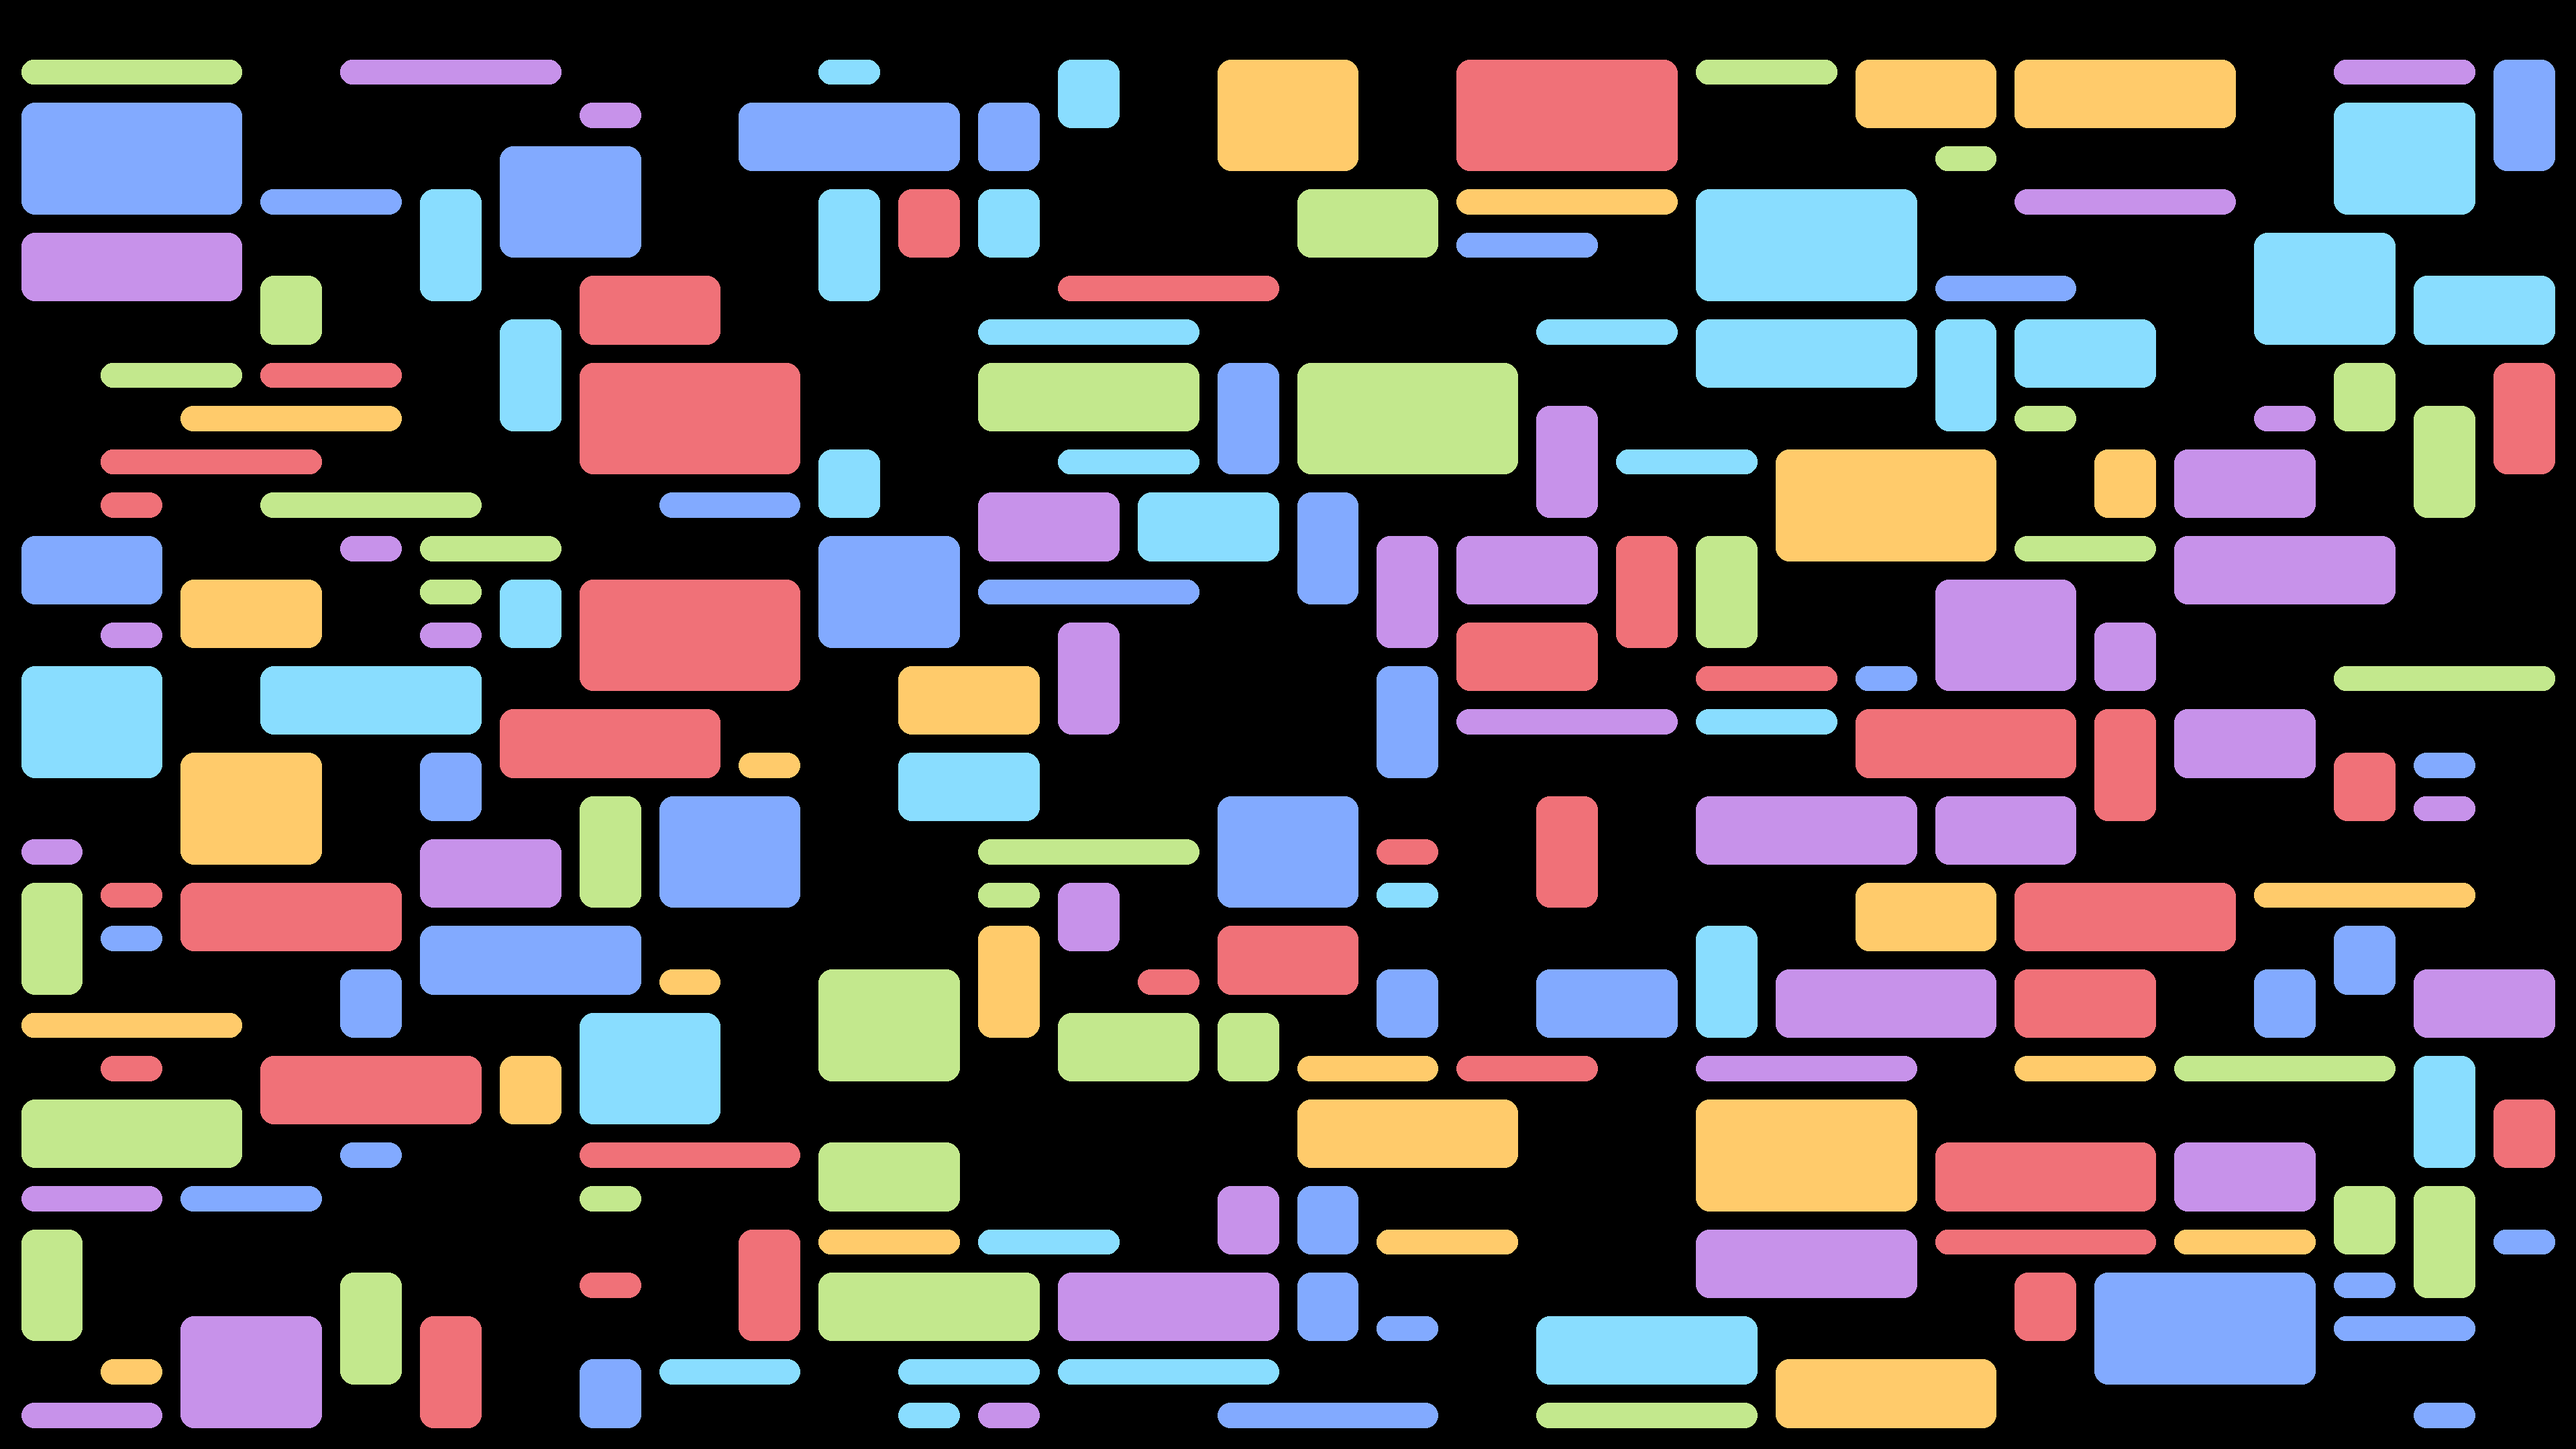
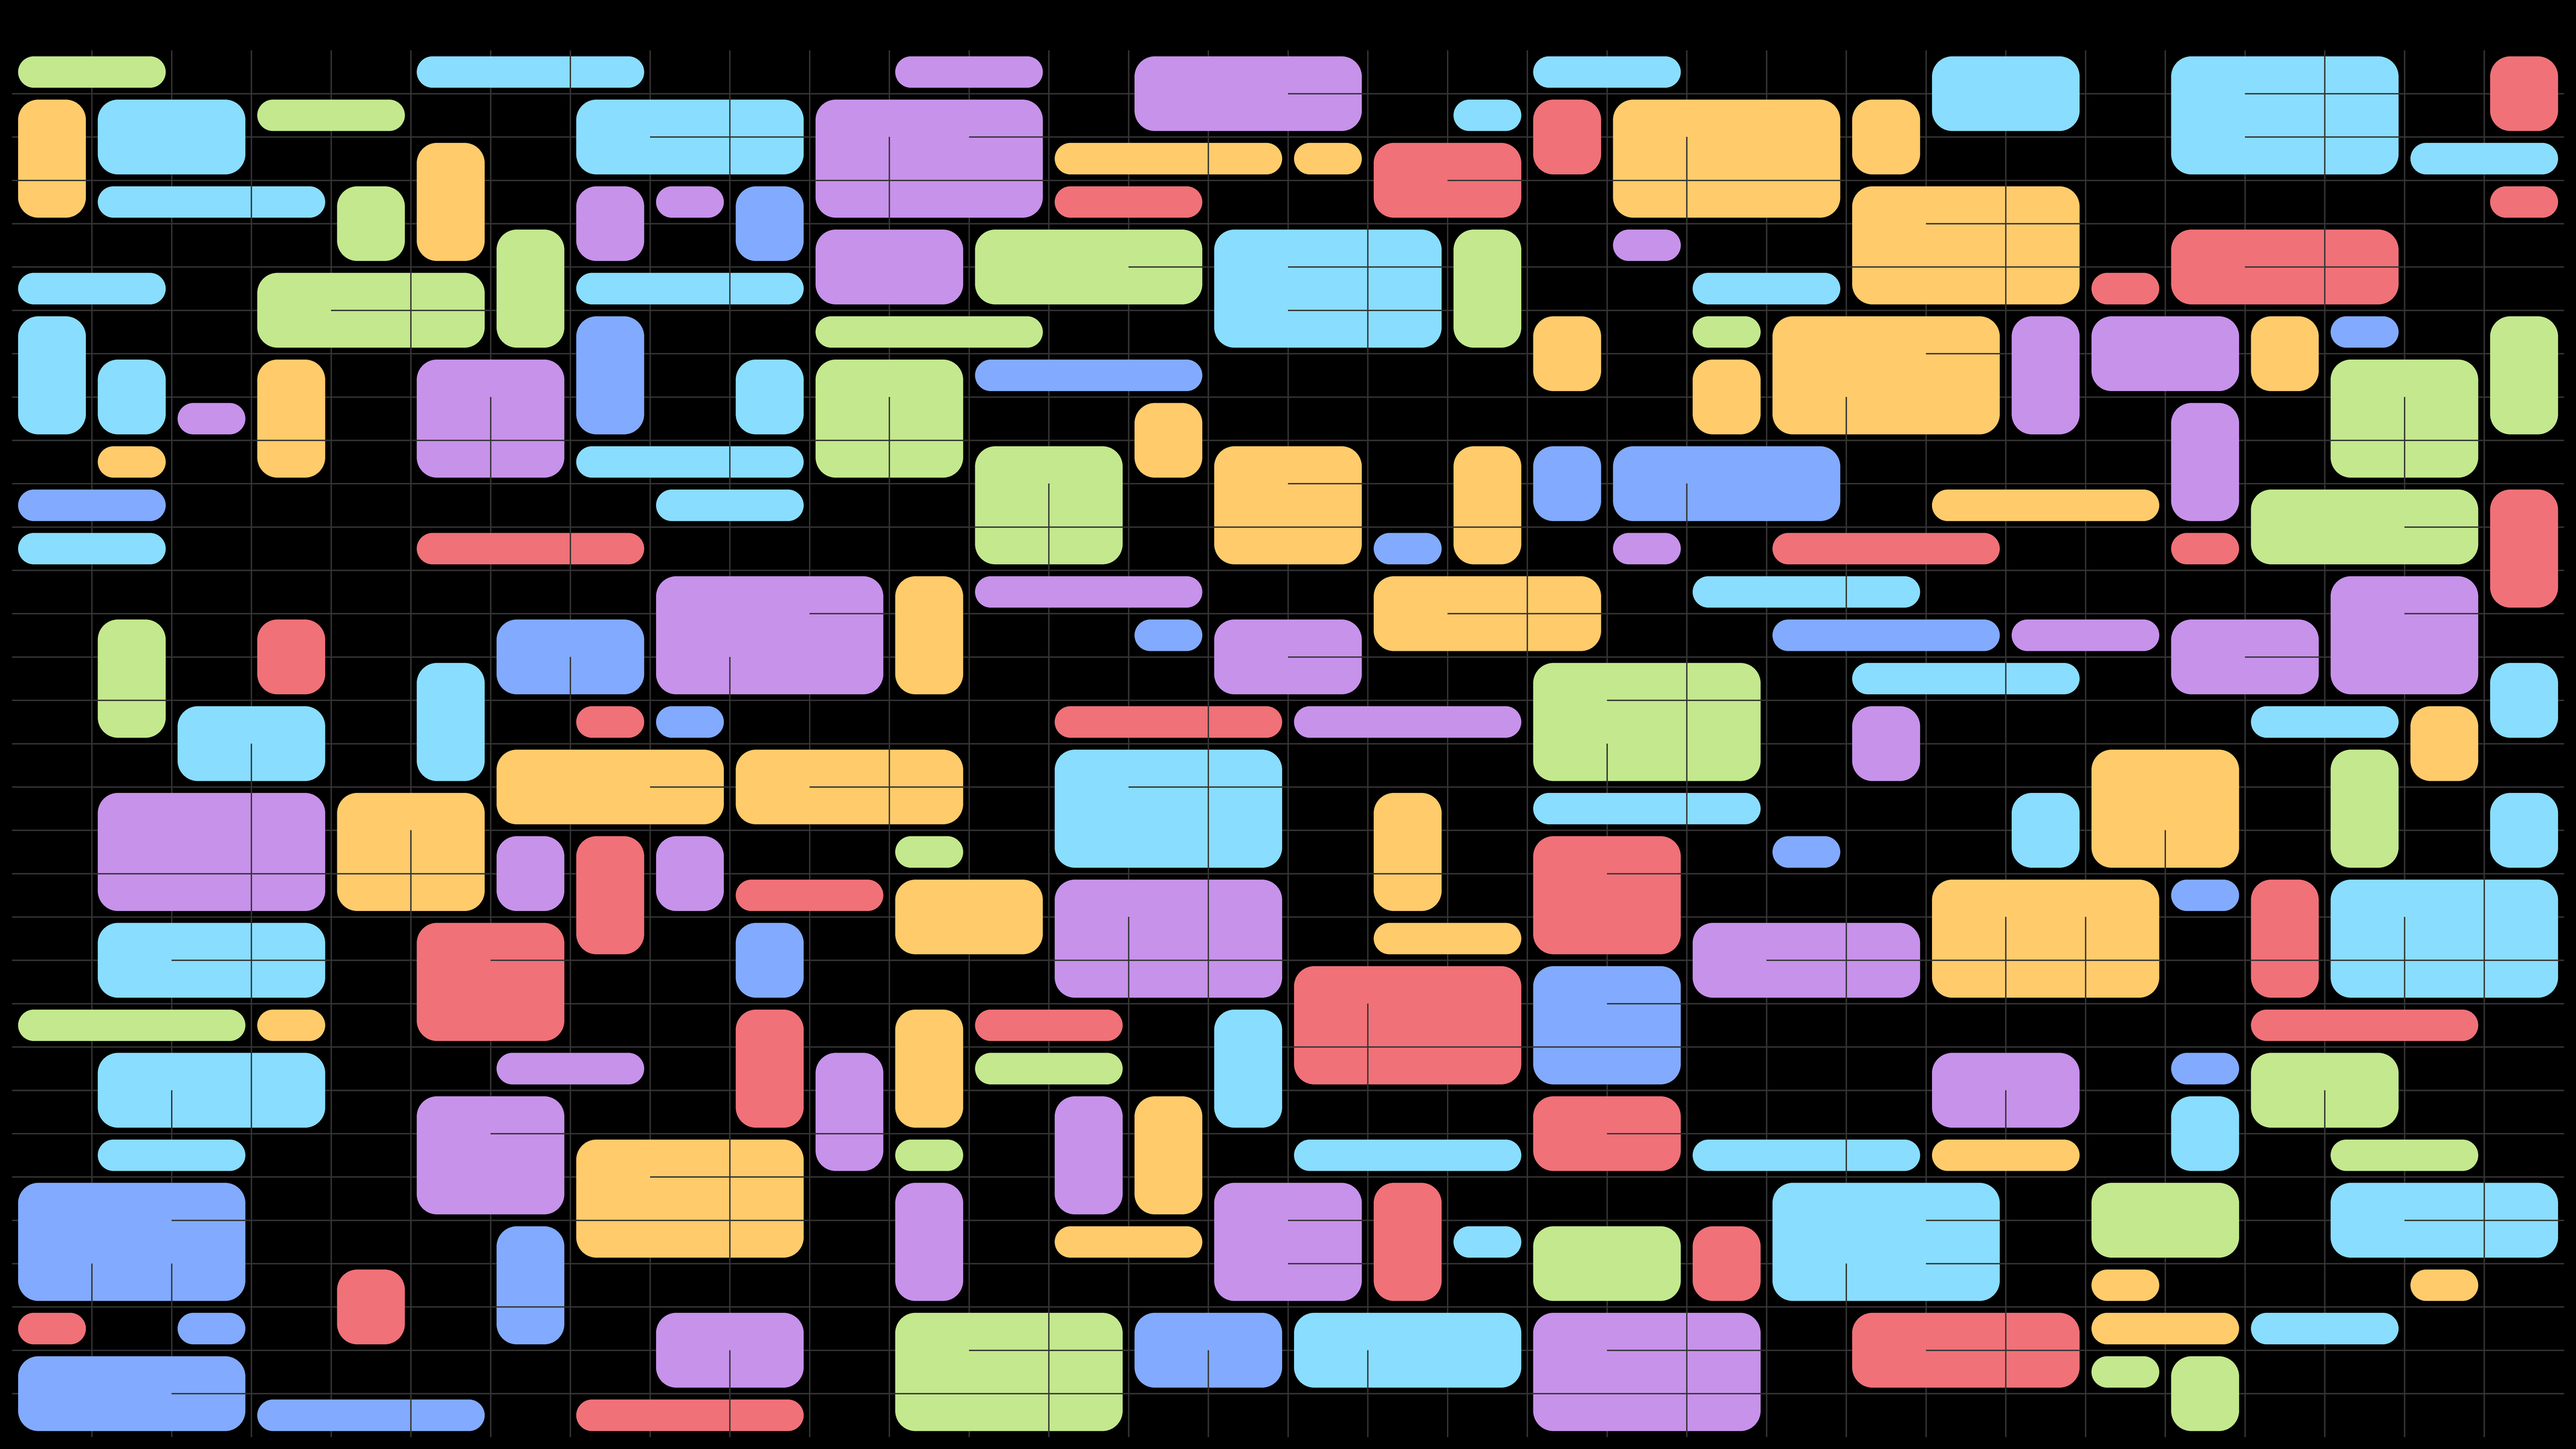
Enhance recursive shape generation with new rendering options and improved padding calculations
Enhances rendering options and padding calculations

Adds new rendering options including resolution scaling, grid line drawing, and shape margin configuration for improved visual quality and debugging. Updates recursive shape generation to support dynamic corner radius based on shape size. Refines padding and tiling container calculations for higher resolution rendering. Introduces downsampling for smoother edges.

diff --git a/wallpapers/doodle_wallpaper.py b/wallpapers/doodle_wallpaper.py
@@ -29,6 +29,9 @@ RANDOM_SEED = None  # Set to None for truly random, or a number for reproducible
 FILL_PROBABILITY = 0.5  # Probability (0-1) that a cell will be filled
 CORNER_RADIUS = 20  # Corner radius for rounded rectangles
 MAX_MERGE_SIZE = 3  # Maximum size of merged cells (1 = no merging, 2 = 2x2, 3 = 3x3, etc.)
+RENDER_SCALE = 4  # Render at higher resolution and downsample for smoother edges
+DRAW_GRID_LINES = False  # Set to True to draw grid lines for alignment verification
+SHAPE_MARGIN = 0.5  # Margin multiplier for shapes (0.5 = half gap, 1.0 = full gap, etc.)
 
 # Color Palette (RGB tuples)
 COLOR_PALETTE = [
@@ -44,7 +47,7 @@ COLOR_BG = (0, 0, 0)  # Pure Black Background
 
 
 # ================= RECURSIVE SHAPE GENERATION =================
-def draw_recursive_shapes(draw, x, y, w, h, level, min_level, padding, filled_cells, container_x, container_y, container_w, container_h):
+def draw_recursive_shapes(draw, x, y, w, h, level, min_level, padding, filled_cells, container_x, container_y, container_w, container_h, corner_radius):
     """
     Recursively subdivide space and randomly fill cells with rounded rectangles.
     Cells can be merged to create larger shapes. Prevents overlapping shapes and merging beyond boundaries.
@@ -110,9 +113,12 @@ def draw_recursive_shapes(draw, x, y, w, h, level, min_level, padding, filled_ce
                 y2 = int(y + merged_h - padding)
                 
                 if x2 > x1 and y2 > y1:  # Only draw if there's space
+                    radius = min(int(corner_radius), (x2 - x1) // 2, (y2 - y1) // 2)
+                    if radius < 0:
+                        radius = 0
                     draw.rounded_rectangle(
                         [(x1, y1), (x2, y2)],
-                        radius=CORNER_RADIUS,
+                        radius=radius,
                         fill=color
                     )
         return
@@ -123,11 +129,20 @@ def draw_recursive_shapes(draw, x, y, w, h, level, min_level, padding, filled_ce
     new_w = w / 2
     new_h = h / 2
     
+    # Draw grid lines if enabled (for debugging)
+    if DRAW_GRID_LINES:
+        line_color = (53, 53, 53)  # Dark gray
+        line_width = max(1, int(2 * RENDER_SCALE))
+        # Vertical line
+        draw.line([(mid_x, y), (mid_x, y + h)], fill=line_color, width=line_width)
+        # Horizontal line
+        draw.line([(x, mid_y), (x + w, mid_y)], fill=line_color, width=line_width)
+    
     # Recurse into four quadrants
-    draw_recursive_shapes(draw, x, y, new_w, new_h, level - 1, min_level, padding, filled_cells, container_x, container_y, container_w, container_h)
-    draw_recursive_shapes(draw, mid_x, y, new_w, new_h, level - 1, min_level, padding, filled_cells, container_x, container_y, container_w, container_h)
-    draw_recursive_shapes(draw, x, mid_y, new_w, new_h, level - 1, min_level, padding, filled_cells, container_x, container_y, container_w, container_h)
-    draw_recursive_shapes(draw, mid_x, mid_y, new_w, new_h, level - 1, min_level, padding, filled_cells, container_x, container_y, container_w, container_h)
+    draw_recursive_shapes(draw, x, y, new_w, new_h, level - 1, min_level, padding, filled_cells, container_x, container_y, container_w, container_h, corner_radius)
+    draw_recursive_shapes(draw, mid_x, y, new_w, new_h, level - 1, min_level, padding, filled_cells, container_x, container_y, container_w, container_h, corner_radius)
+    draw_recursive_shapes(draw, x, mid_y, new_w, new_h, level - 1, min_level, padding, filled_cells, container_x, container_y, container_w, container_h, corner_radius)
+    draw_recursive_shapes(draw, mid_x, mid_y, new_w, new_h, level - 1, min_level, padding, filled_cells, container_x, container_y, container_w, container_h, corner_radius)
 
 
 # ================= MAIN LOOP =================
@@ -138,24 +153,34 @@ if RANDOM_SEED is not None:
 for m in MONITORS:
     print(f"Processing {m['name']}...")
 
-    # 1. Calculate Physical Dimensions
-    # We round to ensure pixel-perfect integer coordinates
+    # 1. Calculate Physical Dimensions at logical resolution first
     scale = m["scale"]
-    bar_px = int(m["bar_logical_height"] * scale)
-    gap_px = int(m["gap_logical"] * scale)
+    bar_px_logical = int(m["bar_logical_height"] * scale)
+    gap_px_logical = int(m["gap_logical"] * scale)
 
-    # Calculate padding for shapes
-    padding = int(gap_px * 0.8)
+    # Define the "Tiling Container" area at logical resolution
+    container_x_logical = gap_px_logical
+    container_y_logical = bar_px_logical + gap_px_logical
+    container_w_logical = m["width"] - (gap_px_logical * 2)
+    container_h_logical = m["height"] - (bar_px_logical + (gap_px_logical * 2))
 
-    # 2. Define the "Tiling Container" area
-    # This is the area where windows actually live
-    container_x = gap_px
-    container_y = bar_px + gap_px
-    container_w = m["width"] - (gap_px * 2)
-    container_h = m["height"] - (bar_px + (gap_px * 2))
+    # Now scale everything for high-resolution rendering
+    bar_px = bar_px_logical * RENDER_SCALE
+    gap_px = gap_px_logical * RENDER_SCALE
+    container_x = container_x_logical * RENDER_SCALE
+    container_y = container_y_logical * RENDER_SCALE
+    container_w = container_w_logical * RENDER_SCALE
+    container_h = container_h_logical * RENDER_SCALE
 
-    # 3. Create Image
-    img = Image.new("RGB", (m["width"], m["height"]), COLOR_BG)
+    # Calculate padding for shapes based on margin parameter
+    padding = max(1, int(gap_px * SHAPE_MARGIN))
+
+    # 3. Create Image at higher resolution
+    img = Image.new(
+        "RGB",
+        (int(m["width"] * RENDER_SCALE), int(m["height"] * RENDER_SCALE)),
+        COLOR_BG,
+    )
     draw = ImageDraw.Draw(img)
 
     # 4. Draw recursive shapes
@@ -163,6 +188,7 @@ for m in MONITORS:
         f"  - Container Area: {container_w}x{container_h} (Offset: {container_x}, {container_y})"
     )
     filled_cells = set()
+    corner_radius = max(1, int(CORNER_RADIUS * scale * RENDER_SCALE))
     draw_recursive_shapes(
         draw,
         container_x,
@@ -177,9 +203,13 @@ for m in MONITORS:
         container_y,
         container_w,
         container_h,
+        corner_radius,
     )
 
-    # 5. Save
+    # 5. Downsample to target resolution for smooth edges
+    img = img.resize((m["width"], m["height"]), resample=Image.Resampling.LANCZOS)
+
+    # 6. Save
     filename = f"wallpaper_{m['name']}.png"
     img.save(filename)
     print(f"  - Saved to {filename}")
